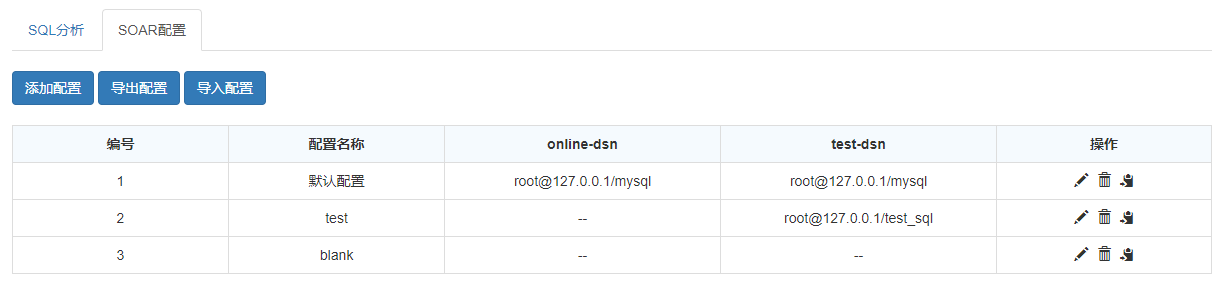
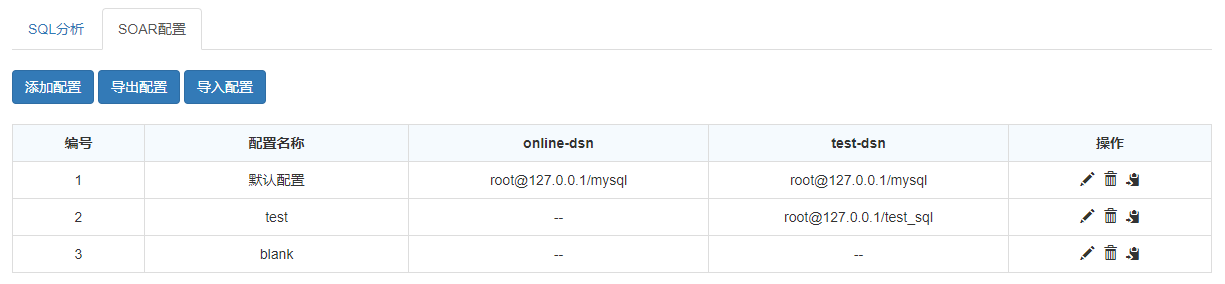
表格宽度更改

diff --git a/static/index.html b/static/index.html
@@ -135,11 +135,11 @@
         <table class="table table-bordered table-hover">
           <thead>
             <tr>
-              <th class="text-center" width="18%">编号</th>
-              <th class="text-center" width="18%">配置名称</th>
-              <th class="text-center" width="23%">online-dsn</th>
-              <th class="text-center" width="23%">test-dsn</th>
-              <th class="text-center" width="18%">操作</th>
+              <th class="text-center" width="11%">编号</th>
+              <th class="text-center" width="22%">配置名称</th>
+              <th class="text-center" width="25%">online-dsn</th>
+              <th class="text-center" width="25%">test-dsn</th>
+              <th class="text-center" width="17%">操作</th>
             </tr>
           </thead>
           <tbody>
